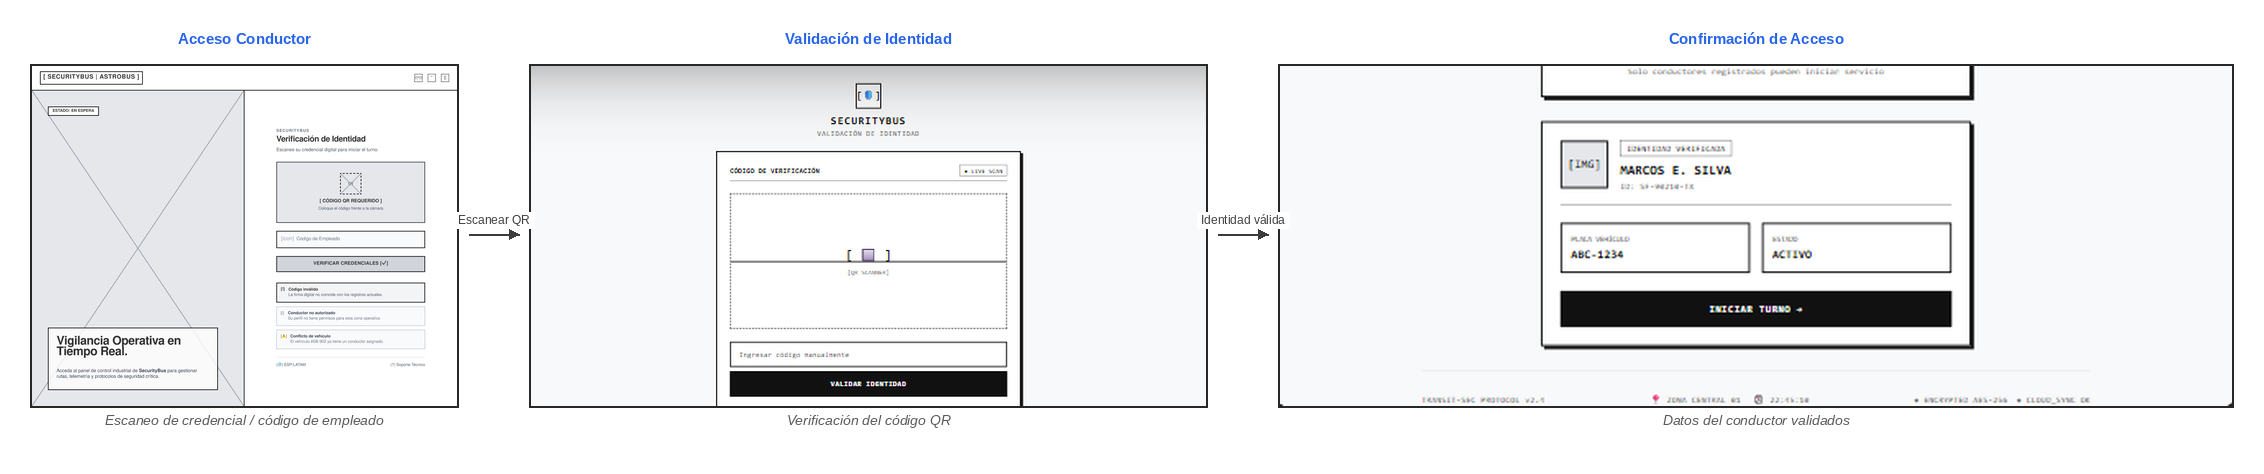
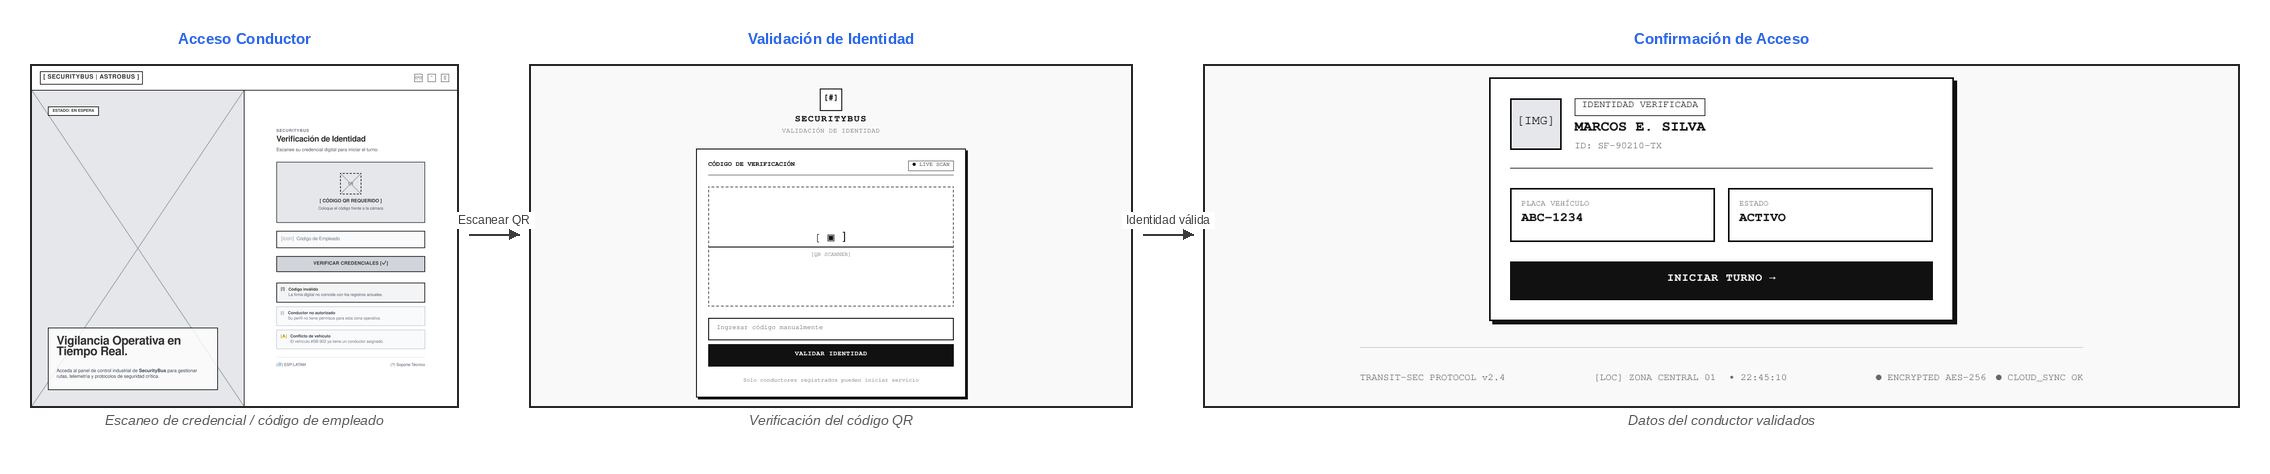
docs: add web application wireflow

diff --git a/Capitulo_4.md b/Capitulo_4.md
@@ -378,23 +378,140 @@ Trabajo elaborado en Figma: [Web Applications Wireframes](https://www.figma.com/
 
 En esta sección se presenta la propuesta de Wireflows, elaborada a partir de los User Goals y las User Stories definidas para las aplicaciones incluidas en el alcance del proyecto SecurityBus.
 
-Task Flow 1: Autenticación y acceso del conductor
+**Task Flow 1: Autenticación y acceso del conductor**
 Objetivo del usuario: Permitir que el conductor valide su identidad mediante código QR para iniciar su turno de forma segura y trazable.
+
 Pasos del Task Flow:
 
-Acceder a la pantalla de Acceso Conductor y escanear el código QR o ingresar el código de empleado.
-El sistema valida las credenciales contra el registro central.
-Confirmar la identidad y visualizar los datos del conductor y del vehículo asignado.
-Iniciar turno desde la confirmación de acceso.
+1. Acceder a la pantalla de Acceso Conductor y escanear el código QR o ingresar el código de empleado.
+2. El sistema valida las credenciales contra el registro central.
+3. Confirmar la identidad y visualizar los datos del conductor y del vehículo asignado.
+4. Iniciar turno desde la confirmación de acceso.
 
 User Goal 1: Como conductor, quiero validar mi identidad antes de iniciar el servicio, para asegurar la trazabilidad del viaje.
 
 User Persona: Conductor
 El conductor accede a la pantalla de Acceso Conductor, escanea su credencial digital o ingresa su código de empleado y presiona "Verificar credenciales". El sistema muestra la pantalla de Validación de Identidad con el escaneo del QR; una vez validado, se presenta la tarjeta de confirmación con nombre, placa del vehículo y estado "Activo", habilitando el botón "Iniciar Turno".
 
+![User Goal 1](docs/assets/web-applications-ux-ui-design/web-applications-wireflow-diagrams/tf1_autenticacion_conductor.png)
+
 Secuencia: Acceso Conductor → Validación de Identidad → Confirmación del acceso
 
+**Task Flow 2: Inicio de servicio y monitoreo de pasajeros**
+Objetivo del usuario: Permitir al conductor iniciar el servicio, monitorear su ruta y controlar el conteo de pasajeros en tiempo real.
 
+Pasos del Task Flow:
+
+1. Configurar el servicio: seleccionar vehículo y turno de trabajo.
+2. Iniciar el servicio y acceder al panel principal.
+3. Registrar el abordaje y bajada de pasajeros.
+4. Recibir alerta si se excede la capacidad máxima.
+5. Consultar la ubicación de la unidad en el mapa.
+
+User Goal 2: Como conductor, deseo registrar el inicio del servicio, para dejar evidencia del recorrido.
+
+User Persona: Conductor
+Desde Inicio de Servicio, el conductor selecciona el vehículo y el turno (mañana/tarde/noche) y confirma "Iniciar Servicio". El sistema lo redirige al Panel principal (Inicio), donde ve distancia, tiempo, pasajeros y la ruta operada en tiempo real.
+
+![User Goal 2](/docs/assets/web-applications-ux-ui-design/web-applications-wireflow-diagrams/tf2a_inicio_servicio.png)
+
+User Goal 3: Como sistema, deseo contabilizar los pasajeros a bordo y alertar cuando se supera la capacidad del vehículo, para evitar altercados y estimar el riesgo.
+
+User Persona: Conductor
+Desde el panel de Conteo de Pasajeros, el conductor registra abordajes (+) y bajadas (−). Si el conteo (62/60) supera la capacidad máxima, el sistema dispara el modal "Has alcanzado el límite de pasajeros", que el conductor reconoce con "OK". Desde el mismo panel puede acceder a Ver Mapa para visualizar la ubicación de la unidad y su ruta.
+
+![User Goal 3](/docs/assets/web-applications-ux-ui-design/web-applications-wireflow-diagrams/tf2b_conteo_pasajeros.png)
+
+Secuencia: Inicio de Servicio → Panel principal (Inicio) → Conteo de Pasajeros → Alerta de límite de pasajeros → Ver Mapa
+
+**Task Flow 3: Gestión de una alerta de emergencia**
+Objetivo del usuario: Permitir al conductor iniciar el servicio, monitorear su ruta y controlar el conteo de pasajeros en tiempo real.
+
+Objetivo del usuario: Permitir al conductor activar una alerta de pánico y a la central confirmar su recepción y ubicación.
+Pasos del Task Flow:
+
+1. Activar el botón de pánico (Panic Signal) ante una situación de riesgo.
+2. Confirmar el envío de la alerta.
+3. La central recibe la ubicación de la unidad en el mapa de operaciones.
+4. La central confirma la recepción de la alerta.
+
+User Goal 4: Como conductor, deseo enviar una alerta de emergencia, para notificar una situación de riesgo; como sistema, deseo notificar a la central de operaciones, para gestionar la emergencia.
+User Persona: Conductor / Central de Operaciones
+Al presionar "Panic Signal", el conductor ve el modal "¡Alerta enviada!" con coordenadas GPS, estado de notificación a central y audio remoto activo, pudiendo cancelar en 5 segundos. La central, en su mapa de operaciones, recibe el pin "SOS" con el popup "Alerta crítica – Unidad" y accede a "Ver detalles". Finalmente, el sistema de central confirma la alerta mediante los pasos "Alert Sent → Alert Received → Confirmed".
+
+![User goal 4](/docs/assets/web-applications-ux-ui-design/web-applications-wireflow-diagrams/tf3_alerta_emergencia.png)
+
+Secuencia: Envío de Alerta → Ubicación de Envío de Alerta (vista central) → Confirmación de Alerta (central)
+
+**Task Flow 4: Cierre de turno del conductor**
+Objetivo del usuario: Permitir al conductor finalizar su turno dejando evidencia del servicio realizado.
+
+Pasos del Task Flow:
+
+1. Consultar el resumen del turno (distancia, tiempo, pasajeros, recaudación).
+2. Completar el protocolo de cierre (checklist).
+3. Confirmar la finalización del servicio.
+Visualizar la confirmación de cierre exitoso.
+
+User Goal 5: Como conductor, quiero finalizar mi turno de forma segura y con evidencia registrada, para garantizar la trazabilidad del servicio.
+User Persona: Conductor
+Al terminar la ruta, el panel muestra el Resumen de Servicio con los totales del turno y el checklist de protocolo de cierre. Al presionar "Finalizar Servicio" (acción irreversible), el sistema muestra el modal "Servicio finalizado correctamente", con opciones "Ver reporte" o "Salir".
+
+![User Goal 5](/docs/assets/web-applications-ux-ui-design/web-applications-wireflow-diagrams/tf4_cierre_turno.png)
+
+Secuencia: Resumen de Servicio → Finalizar Turno (confirmación)
+
+**Task Flow 5: Supervisión y atención de alertas (Administrador)**
+Objetivo del usuario: Permitir a la central supervisar las unidades activas y atender alertas críticas en tiempo real.
+
+Pasos del Task Flow:
+
+1. Visualizar el mapa con las unidades activas.
+2. Detectar una alerta activa sobre el mapa.
+3. Gestionar notificaciones y destinatarios de la red de alertas.
+
+User Goal 6: Como empresa, deseo conocer el estado de mis vehículos en operación y clasificar las alertas según su gravedad, para tener control operativo.
+User Persona: Administrador / Central de Operaciones
+Desde el Centro de Control, el administrador visualiza las unidades activas sobre el mapa de Lima. Cuando ocurre una emergencia, el mismo mapa resalta "Alerts: 1 Active". Desde Notificaciones, el administrador gestiona los destinatarios activos y simula el envío de alertas según prioridad (baja/media/urgente).
+
+![User Goal 6](/docs/assets/web-applications-ux-ui-design/web-applications-wireflow-diagrams/tf5_supervision_alertas_admin.png)
+
+Secuencia: Centro de Control → Centro de Control con Alerta → Notificaciones
+
+**Task Flow 6: Gestión de conductores y unidades**
+Objetivo del usuario: Permitir administrar el registro de conductores y su asociación con los vehículos disponibles.
+
+Pasos del Task Flow:
+
+1. Consultar el listado de conductores registrados.
+2. Revisar el detalle, licencias y línea de autorizaciones de un conductor.
+3. Asociar un conductor disponible a un vehículo disponible.
+4. Confirmar la asignación.
+
+User Goal 7: Como sistema, deseo asociar un conductor a un vehículo, para asegurar la trazabilidad.
+User Persona: Administrador
+Desde Gestión de Conductores, el administrador revisa el listado y accede al detalle de un conductor (licencia, puntos, calificación, historial de autorizaciones). Desde Asignación de Unidades, selecciona un conductor disponible y un vehículo disponible, y confirma con "Confirmar Asignación", quedando reflejado en la tabla de asignaciones vigentes.
+
+![User Goal 7](/docs/assets/web-applications-ux-ui-design/web-applications-wireflow-diagrams/tf6_gestion_conductores_unidades.png)
+
+Secuencia: Gestión de Conductores → Asignación de Unidades
+
+Task Flow 7: Trazabilidad y reportes operativos (Administrador)
+Objetivo del usuario: Permitir a la central consultar el historial de turnos, indicadores de impacto y gestionar el reenvío de alertas no confirmadas.
+
+Pasos del Task Flow:
+
+1. Filtrar y consultar el historial de turnos por ruta y fecha.
+2. Visualizar los indicadores de impacto del sistema.
+3. Revisar y reenviar alertas no confirmadas.
+
+**User Goal 8**: Como empresa, deseo conocer la cantidad de personas en distintas unidades, para comparar la ocupación entre distintas rutas.
+User Persona: Administrador
+Desde Historial de Turnos, el administrador filtra por rango de fecha y ruta, revisando el log de operaciones, pasajeros transportados e incidentes de cada turno. Desde Impacto en Números consulta métricas globales (conductores verificados, alertas gestionadas, pasajeros protegidos). Desde Gestión de Reenvíos, monitorea alertas pendientes/críticas y reenvía las que no fueron confirmadas.
+
+![User Goal 8](/docs/assets/web-applications-ux-ui-design/web-applications-wireflow-diagrams/tf7_trazabilidad_reportes_admin.png)
+
+Secuencia: Historial de Turnos → Impacto en Números → Gestión de Reenvíos
 
 #### 4.4.3. Web Applications Mock-ups
 
